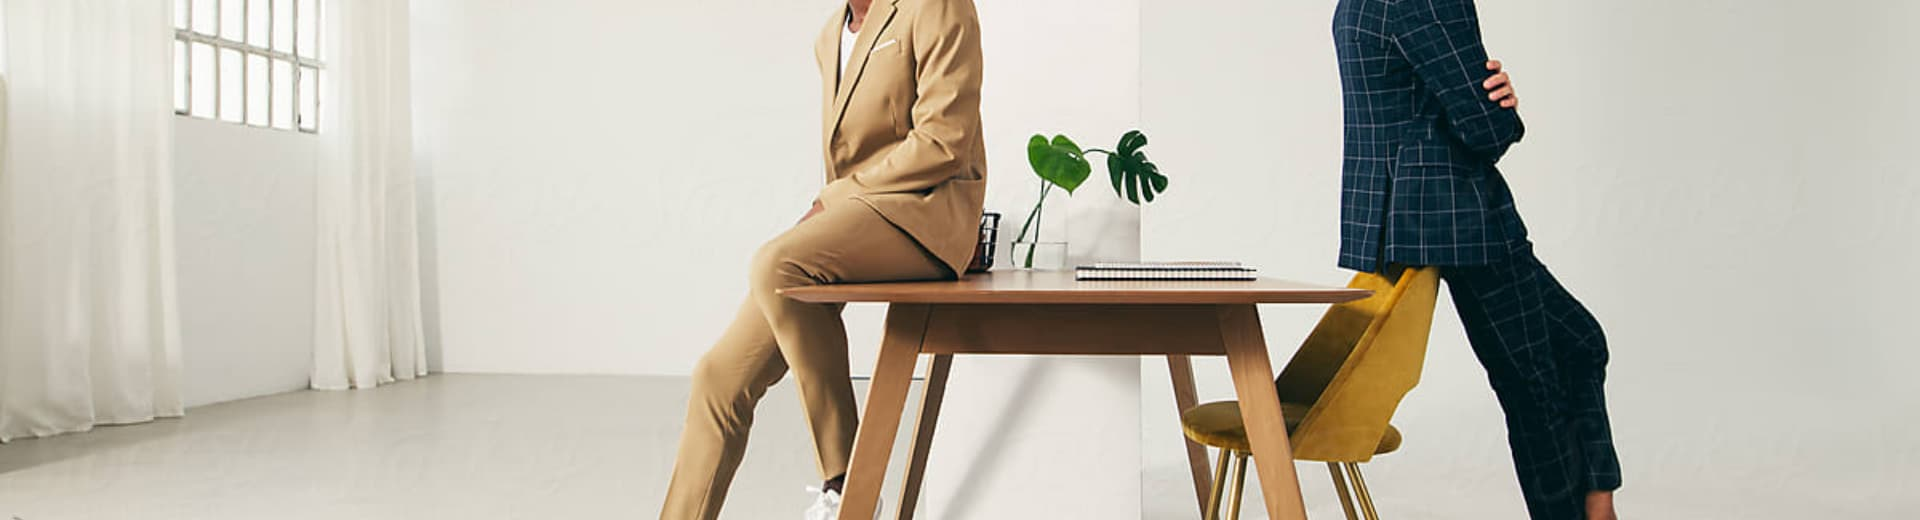
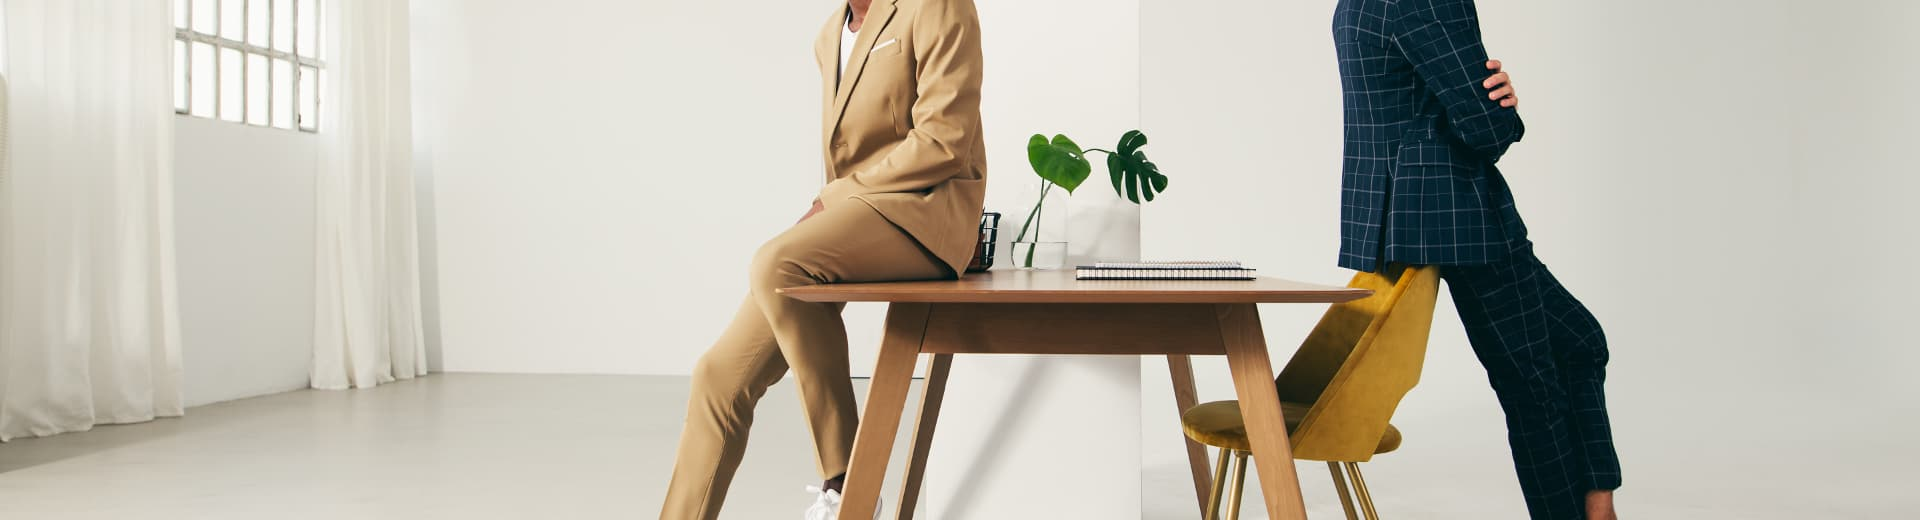
update images

diff --git a/src/css/get-in-touch_uk.css b/src/css/get-in-touch_uk.css
@@ -5,7 +5,15 @@
   background-position: center center;
   background-size: cover;
   background-repeat: no-repeat;
-  background-image: url(../images/get-in-touch.jpg);
+  background-image: url(../images/get-in-touch/get-in-touch-bg.jpg);
+  background-image: -webkit-image-set(
+    url(../images/get-in-touch/get-in-touch-bg.jpg) 1x,
+    url(../images/get-in-touch/get-in-touch-bg@2x.jpg) 2x
+  );
+  background-image: image-set(
+    url(../images/get-in-touch/get-in-touch-bg.jpg) 1x,
+    url(../images/get-in-touch/get-in-touch-bg@2x.jpg) 2x
+  );
   width: 100%;
   color: #fff;
 }

diff --git a/src/css/business_uk.css b/src/css/business_uk.css
@@ -35,7 +35,15 @@
   background-repeat: no-repeat;
   background-size: cover;
   background-position: center;
-  background-image: url(../images/business.jpg);
+  background-image: url(../images/business_bg.jpg);
+  background-image: -webkit-image-set(
+    url(../images/business_bg.jpg) 1x,
+    url(../images/business_bg.jpg@2x.jpg) 2x
+  );
+  background-image: image-set(
+    url(../images/business_bg.jpg) 1x,
+    url(../images/business_bg.jpg@2x.jpg) 2x
+  );
 }
 
 .introduction-wrap::after {
